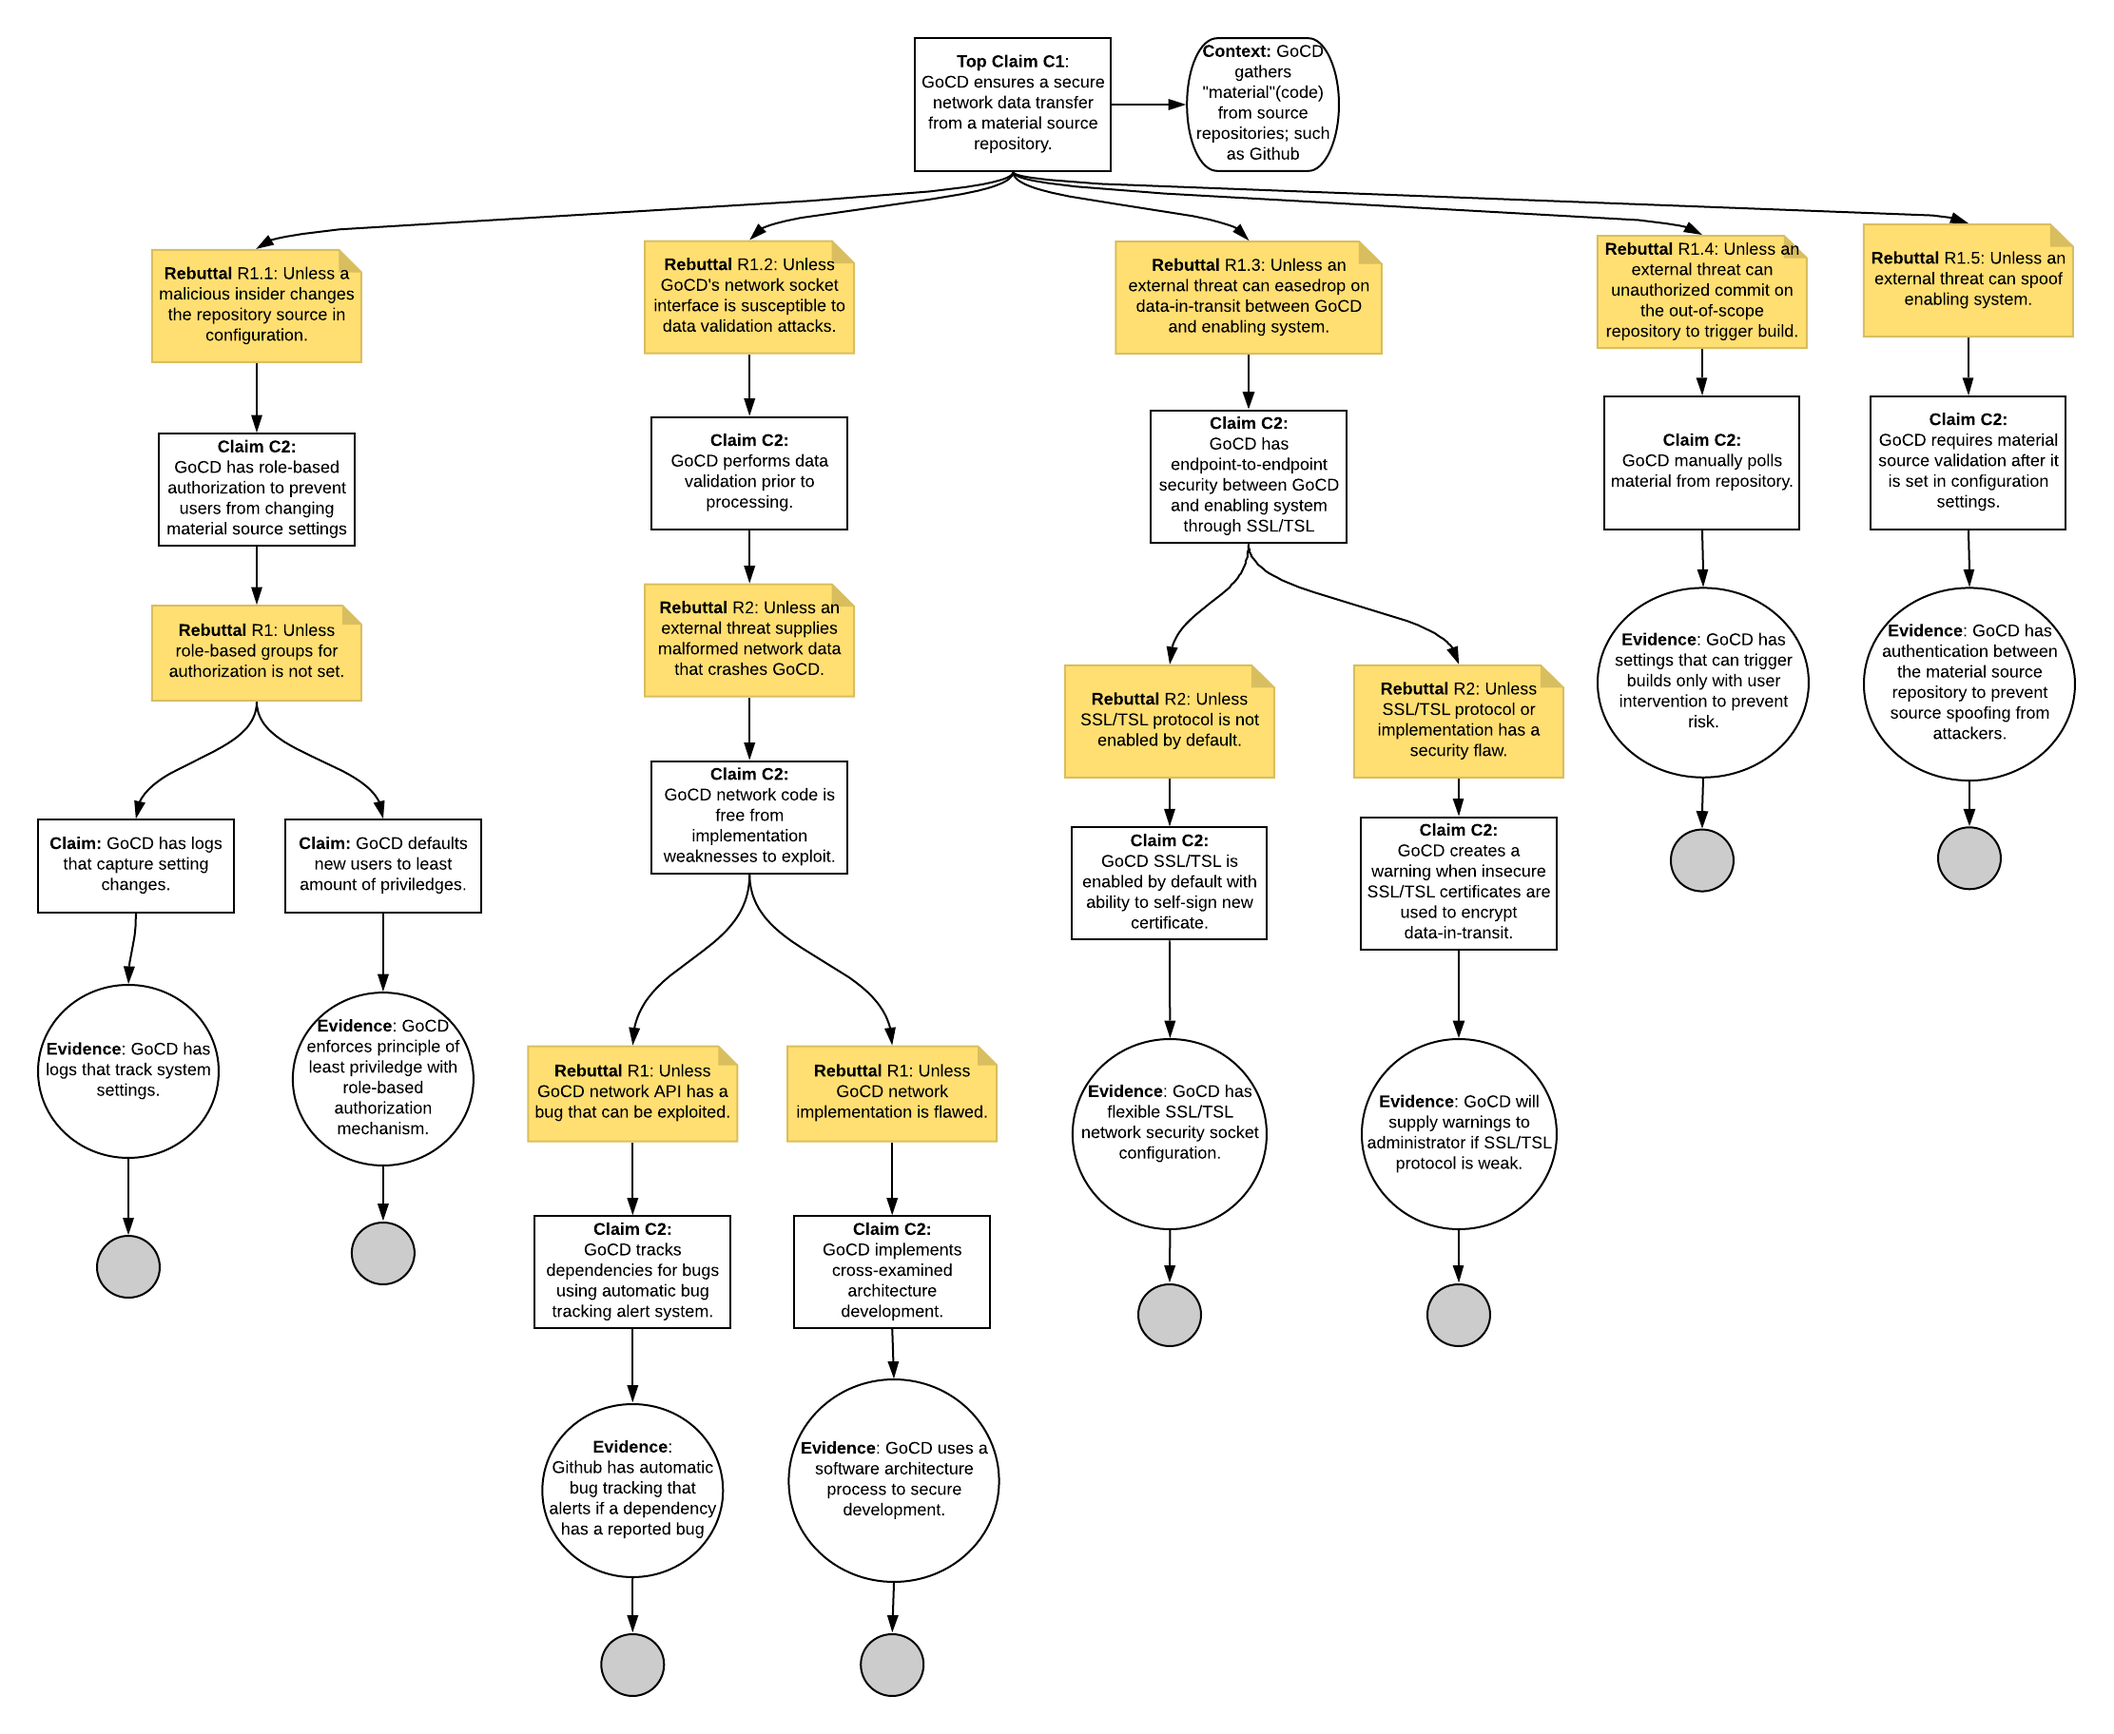
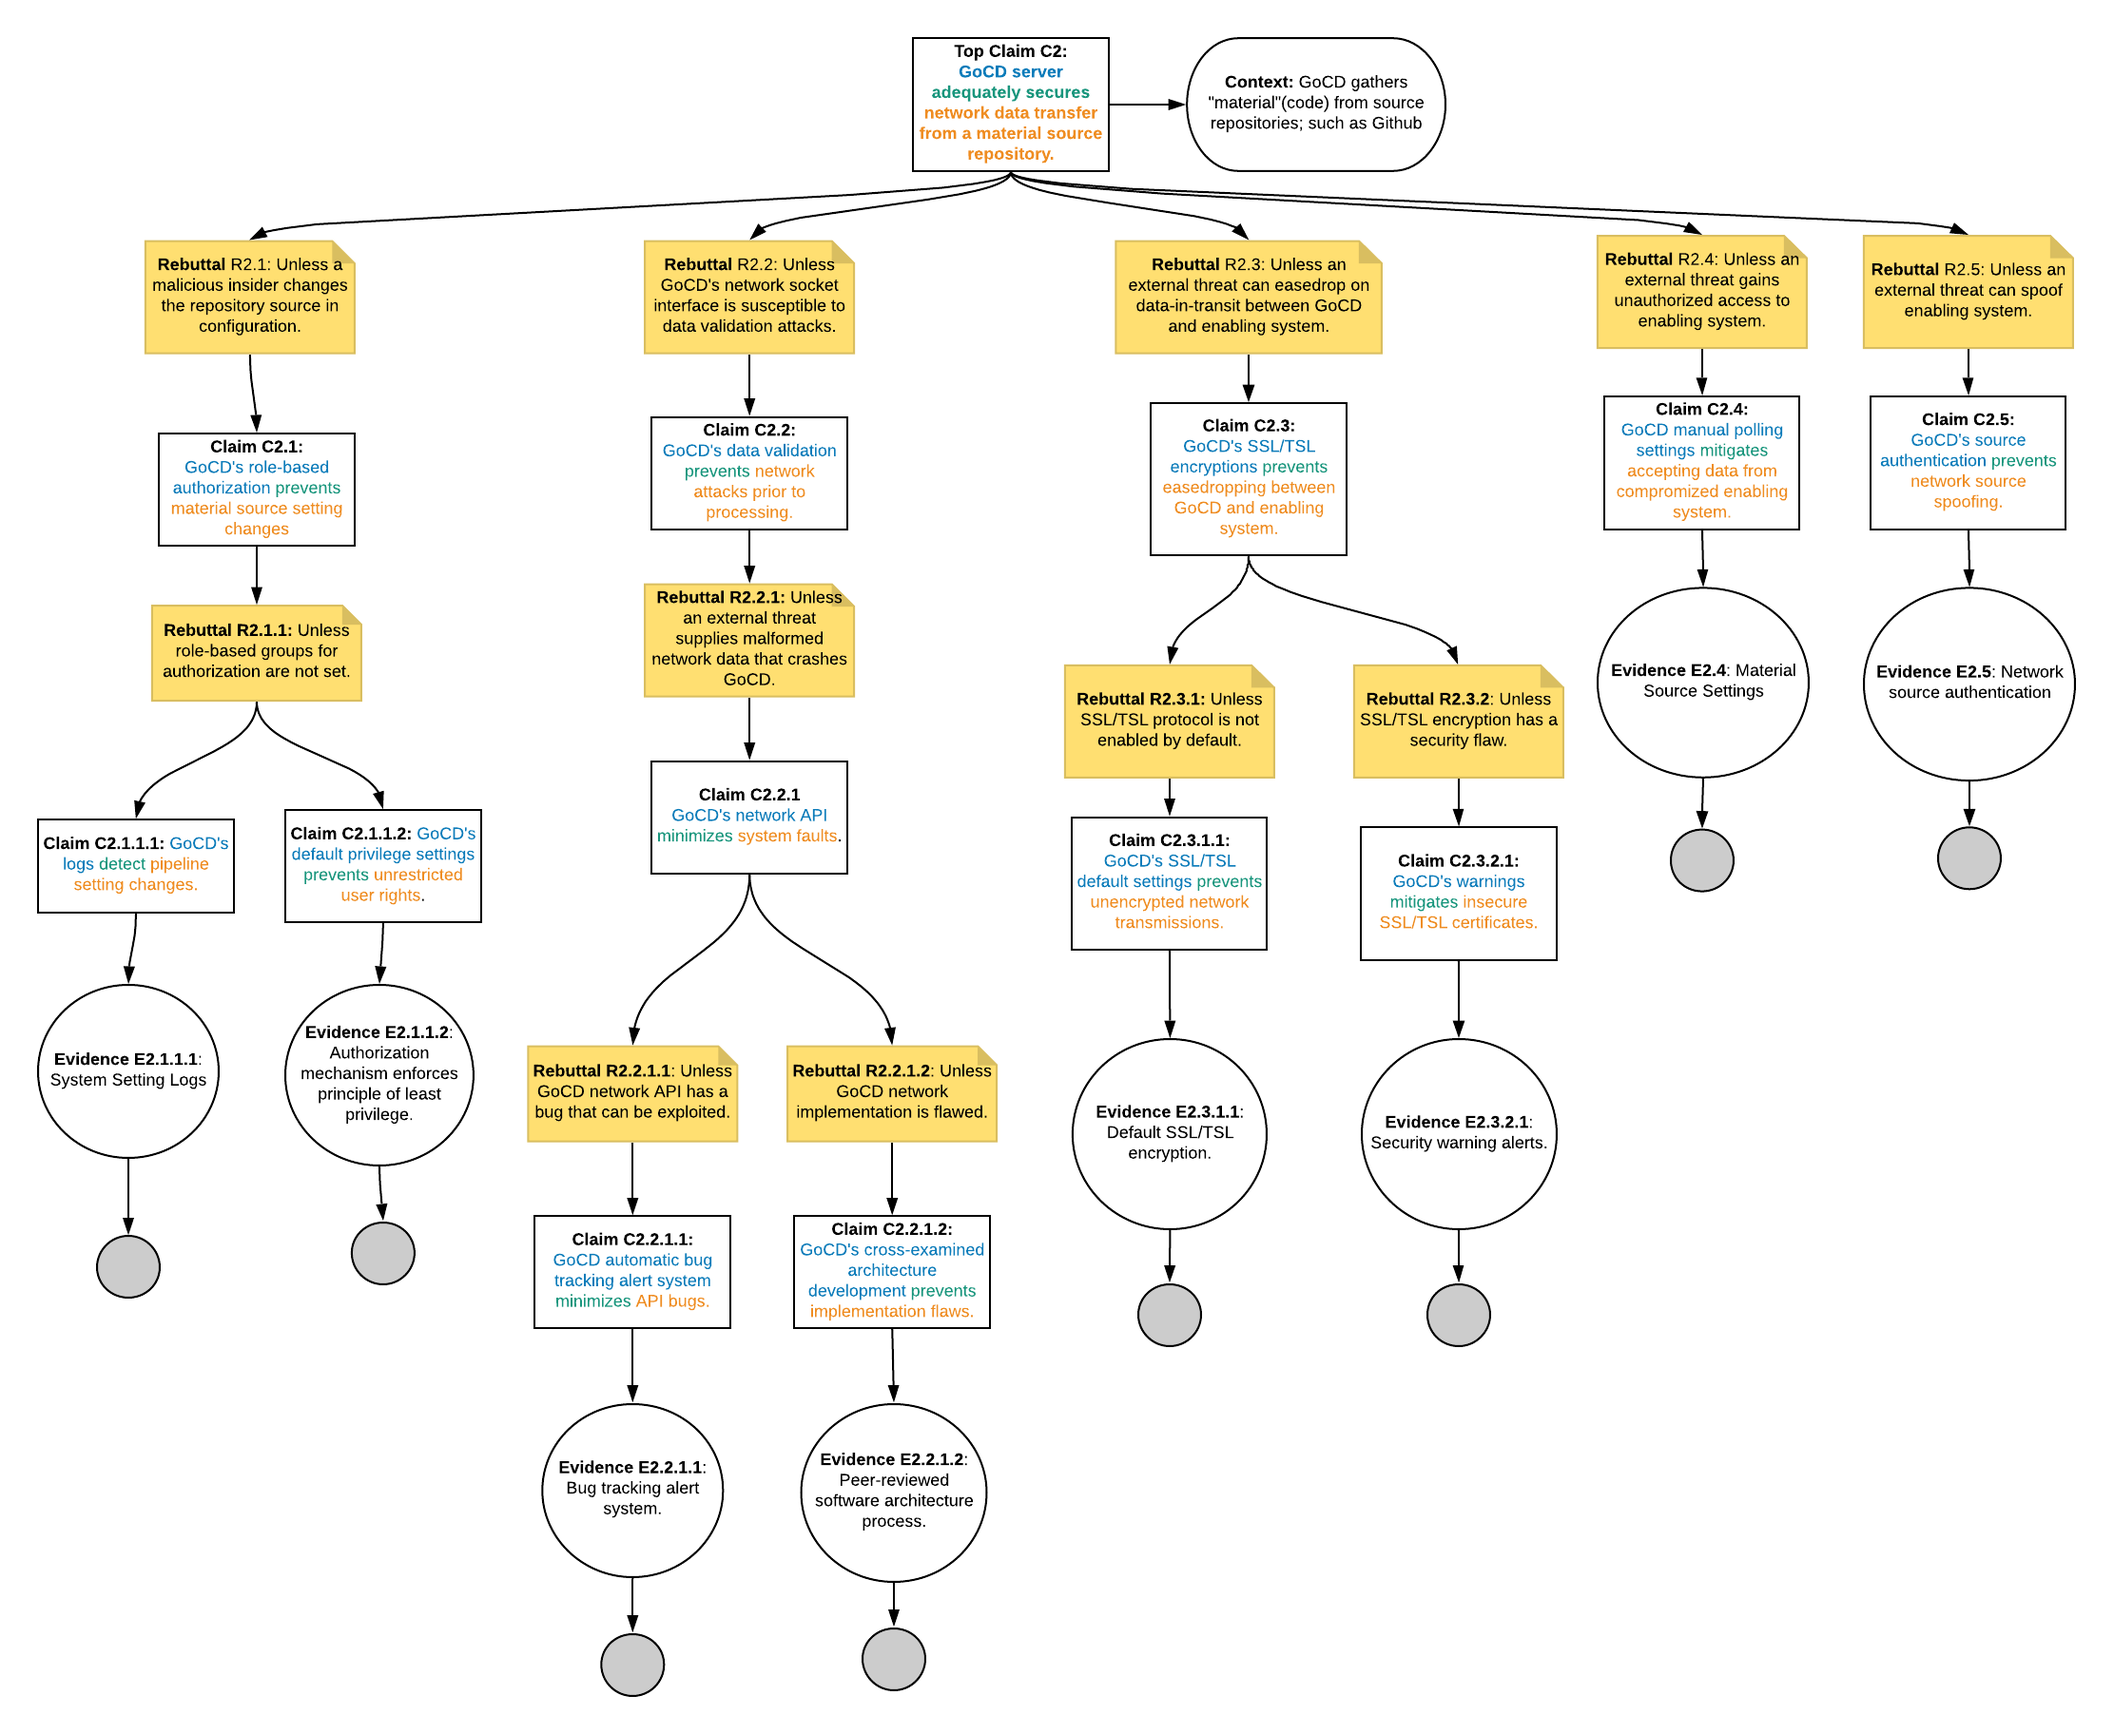
updated Assurance Case 2 figure

diff --git a/submissions/Assurance-Claims.md b/submissions/Assurance-Claims.md
@@ -51,6 +51,10 @@ note: should be more specific
 ![GoCD server adequately safeguards against CSRF](https://github.com/SA-Java-CCSW/CYBR8420ProjectGoCD/blob/master/AssuranceClaims/GoCDSafegaurdsCSRF.png)
 
 
+Github has automatic bug tracking that alerts if a dependency has a reported bug.
+
+GoCD has settings that can trigger builds only with user intervention to prevent risk.
+
 ### Project Links
 * Team Repository: https://github.com/SA-Java-CCSW/CYBR8420ProjectGoCD
 * Project Board: https://github.com/SA-Java-CCSW/CYBR8420ProjectGoCD/projects/3
